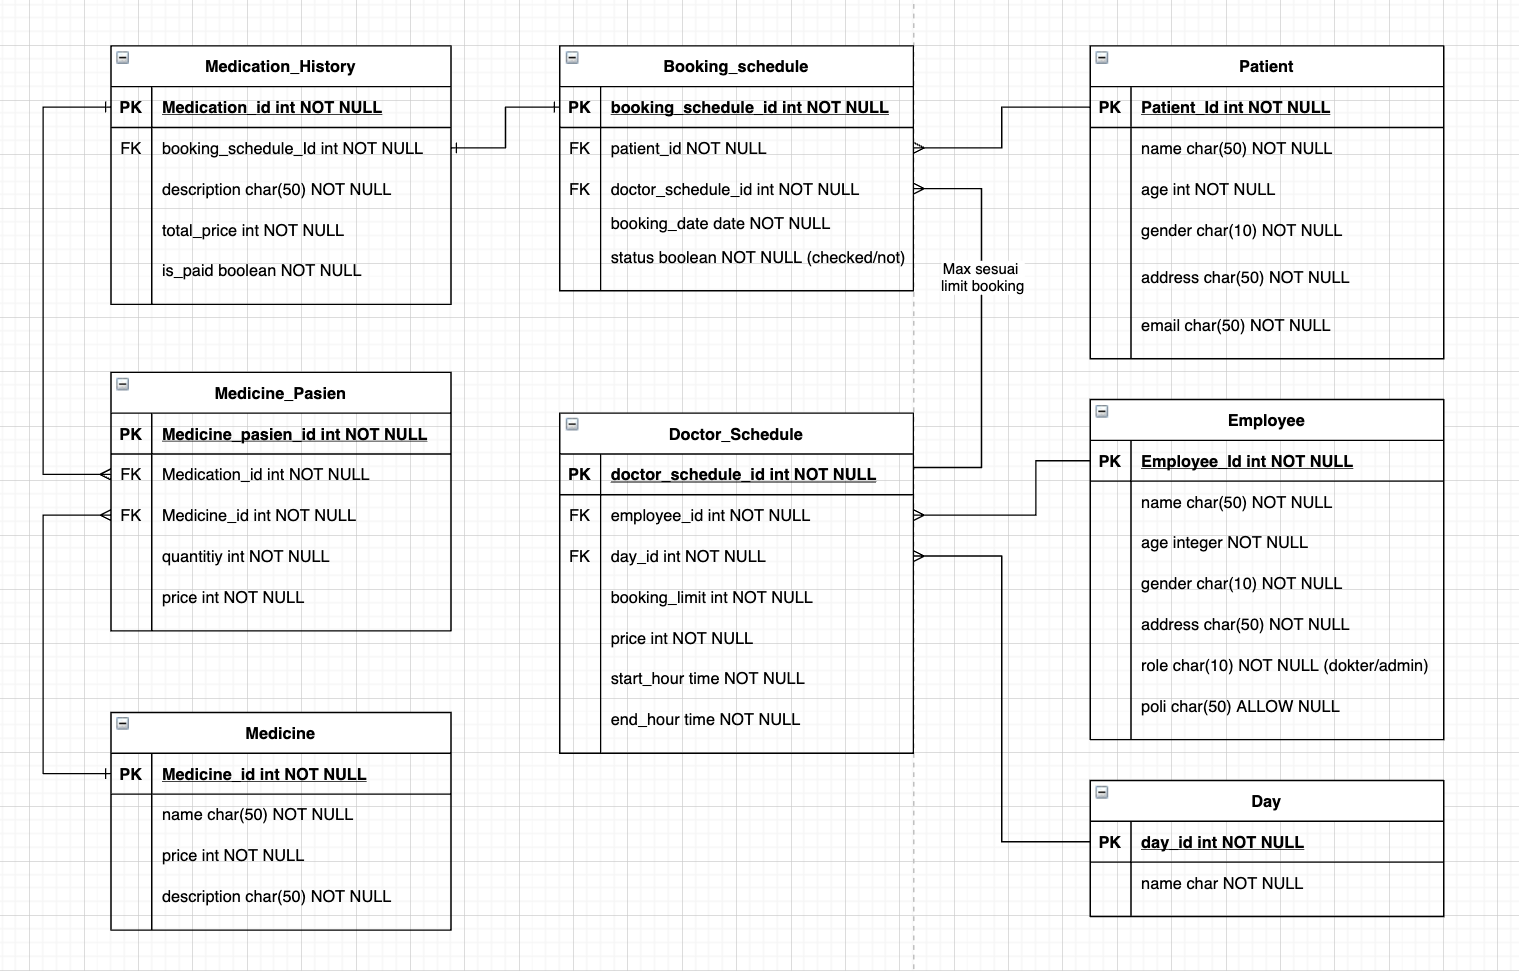
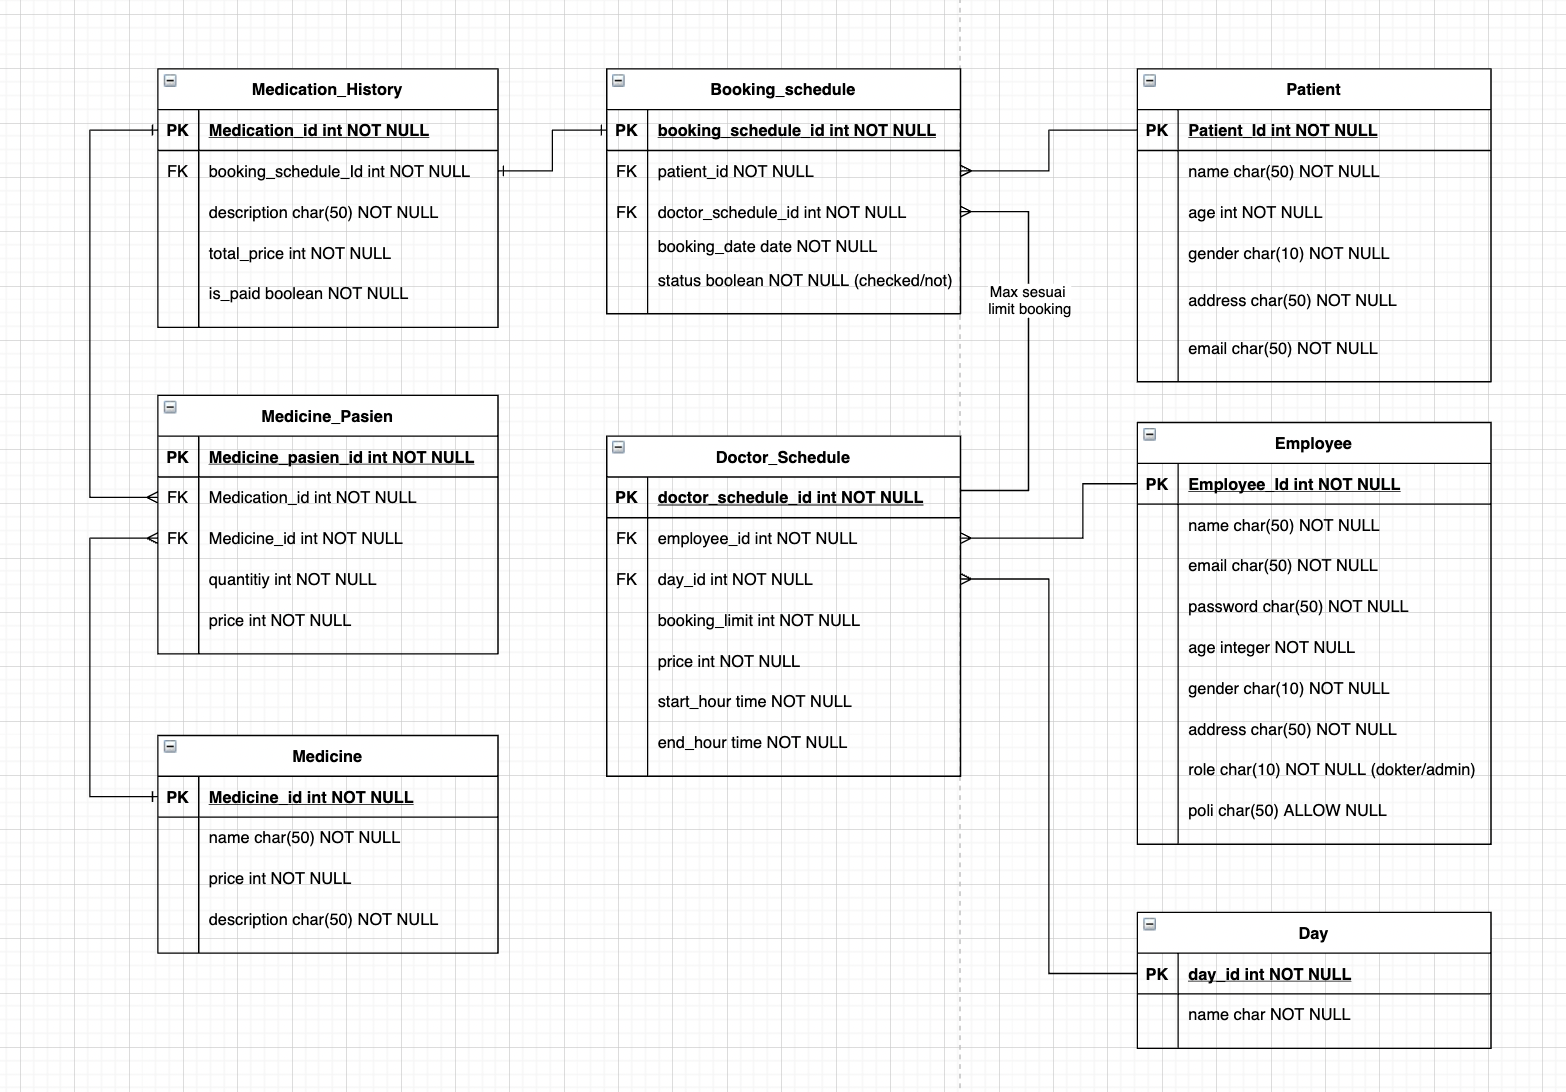
validation model and migrations

diff --git a/server/models/employee.js b/server/models/employee.js
@@ -14,11 +14,35 @@ module.exports = (sequelize, DataTypes) => {
     }
   };
   Employee.init({
-    name: DataTypes.STRING,
-    age: DataTypes.INTEGER,
-    gender: DataTypes.STRING,
-    address: DataTypes.STRING,
-    role: DataTypes.STRING,
+    name: {
+      allowNull: false,
+      type: DataTypes.STRING,
+    },
+    email: {
+      allowNull: false,
+      type: DataTypes.STRING,
+      unique: true
+    },
+    password: {
+      allowNull: false,
+      type: DataTypes.STRING,
+    },
+    age: {
+      allowNull: false,
+      type: DataTypes.INTEGER,
+    },
+    gender: {
+      allowNull: false,
+      type: DataTypes.STRING,
+    },
+    address: {
+      allowNull: false,
+      type: DataTypes.STRING,
+    },
+    role: {
+      allowNull: false,
+      type: DataTypes.STRING,
+    },
     poli: DataTypes.STRING
   }, {
     sequelize,

diff --git a/server/migrations/20211009050148-create-doctor-schedule.js b/server/migrations/20211009050148-create-doctor-schedule.js
@@ -9,21 +9,35 @@ module.exports = {
         type: Sequelize.INTEGER
       },
       EmployeeId: {
-        type: Sequelize.INTEGER
+        allowNull: false,
+        type: Sequelize.INTEGER,
+        references: {
+          model: 'Employees',
+          key: 'id'
+        }
       },
       DayId: {
-        type: Sequelize.INTEGER
+        allowNull: false,
+        type: Sequelize.INTEGER,
+        references: {
+          model: 'Days',
+          key: 'id'
+        }
       },
       booking_limit: {
+        allowNull: false,
         type: Sequelize.INTEGER
       },
       price: {
+        allowNull: false,
         type: Sequelize.INTEGER
       },
       start_hour: {
+        allowNull: false,
         type: Sequelize.DATE
       },
       end_hour: {
+        allowNull: false,
         type: Sequelize.DATE
       },
       createdAt: {

diff --git a/server/models/doctor_schedule.js b/server/models/doctor_schedule.js
@@ -14,12 +14,30 @@ module.exports = (sequelize, DataTypes) => {
     }
   };
   Doctor_Schedule.init({
-    EmployeeId: DataTypes.INTEGER,
-    DayId: DataTypes.INTEGER,
-    booking_limit: DataTypes.INTEGER,
-    price: DataTypes.INTEGER,
-    start_hour: DataTypes.DATE,
-    end_hour: DataTypes.DATE
+    EmployeeId: {
+      allowNull: false,
+      type: DataTypes.INTEGER,
+    },
+    DayId: {
+      allowNull: false,
+      type: DataTypes.INTEGER,
+    },
+    booking_limit: {
+      allowNull: false,
+      type: DataTypes.INTEGER,
+    },
+    price: {
+      allowNull: false,
+      type: DataTypes.INTEGER,
+    },
+    start_hour: {
+      allowNull: false,
+      type: DataTypes.DATE,
+    },
+    end_hour: {
+      allowNull: false,
+      type: DataTypes.DATE,
+    }
   }, {
     sequelize,
     modelName: 'Doctor_Schedule',

diff --git a/server/migrations/20211009045454-create-employee.js b/server/migrations/20211009045454-create-employee.js
@@ -9,18 +9,32 @@ module.exports = {
         type: Sequelize.INTEGER
       },
       name: {
+        allowNull: false,
+        type: Sequelize.STRING
+      },
+      email: {
+        allowNull: false,
+        type: Sequelize.STRING,
+        unique: true
+      },
+      password: {
+        allowNull: false,
         type: Sequelize.STRING
       },
       age: {
+        allowNull: false,
         type: Sequelize.INTEGER
       },
       gender: {
+        allowNull: false,
         type: Sequelize.STRING
       },
       address: {
+        allowNull: false,
         type: Sequelize.STRING
       },
       role: {
+        allowNull: false,
         type: Sequelize.STRING
       },
       poli: {

diff --git a/server/migrations/20211009050346-create-booking-schedule.js b/server/migrations/20211009050346-create-booking-schedule.js
@@ -9,15 +9,27 @@ module.exports = {
         type: Sequelize.INTEGER
       },
       PatientId: {
-        type: Sequelize.INTEGER
+        allowNull: false,
+        type: Sequelize.INTEGER,
+        references: {
+          model: 'Patients',
+          key: 'id'
+        }
       },
       DoctorScheduleId: {
-        type: Sequelize.INTEGER
+        allowNull: false,
+        type: Sequelize.INTEGER,
+        references: {
+          model: 'Doctor_Schedules',
+          key: 'id'
+        }
       },
       booking_date: {
+        allowNull: false,
         type: Sequelize.DATE
       },
       status: {
+        allowNull: false,
         type: Sequelize.BOOLEAN
       },
       createdAt: {

diff --git a/server/models/patient.js b/server/models/patient.js
@@ -14,11 +14,27 @@ module.exports = (sequelize, DataTypes) => {
     }
   };
   Patient.init({
-    name: DataTypes.STRING,
-    age: DataTypes.INTEGER,
-    gender: DataTypes.STRING,
-    address: DataTypes.STRING,
-    email: DataTypes.STRING
+    name: {
+      allowNull: false,
+      type: DataTypes.STRING,
+    },
+    age: {
+      allowNull: false,
+      type: DataTypes.INTEGER,
+    },
+    gender: {
+      allowNull: false,
+      type: DataTypes.STRING,
+    },
+    address: {
+      allowNull: false,
+      type: DataTypes.STRING,
+    },
+    email: {
+      allowNull: false,
+      type: DataTypes.STRING,
+      unique: true
+    }
   }, {
     sequelize,
     modelName: 'Patient',

diff --git a/server/models/medication_history.js b/server/models/medication_history.js
@@ -14,11 +14,25 @@ module.exports = (sequelize, DataTypes) => {
     }
   };
   Medication_History.init({
-    BookingScheduleId: DataTypes.INTEGER,
-    description: DataTypes.STRING,
-    total_price: DataTypes.INTEGER,
+    BookingScheduleId: {
+      allowNull: false,
+      type: DataTypes.INTEGER,
+    },
+    description: {
+      allowNull: false,
+      type: DataTypes.STRING,
+    },
+    total_price: {
+      allowNull: false,
+      type: DataTypes.INTEGER,
+    },
     is_paid: DataTypes.BOOLEAN
   }, {
+    hooks: {
+      beforeCreate(item){
+        item.is_paid = false
+      }
+    },
     sequelize,
     modelName: 'Medication_History',
   });

diff --git a/server/models/booking_schedule.js b/server/models/booking_schedule.js
@@ -14,11 +14,25 @@ module.exports = (sequelize, DataTypes) => {
     }
   };
   Booking_Schedule.init({
-    PatientId: DataTypes.INTEGER,
-    DoctorScheduleId: DataTypes.INTEGER,
-    booking_date: DataTypes.DATE,
+    PatientId: {
+      allowNull: false,
+      type: DataTypes.INTEGER,
+    },
+    DoctorScheduleId: {
+      allowNull: false,
+      type: DataTypes.INTEGER,
+    },
+    booking_date: {
+      allowNull: false,
+      type: DataTypes.DATE,
+    },
     status: DataTypes.BOOLEAN
   }, {
+    hooks: {
+      beforeCreate(item){
+        item.status = false
+      }
+    },
     sequelize,
     modelName: 'Booking_Schedule',
   });

diff --git a/server/migrations/20211009050640-create-patient-medicine.js b/server/migrations/20211009050640-create-patient-medicine.js
@@ -9,12 +9,23 @@ module.exports = {
         type: Sequelize.INTEGER
       },
       MedicationId: {
-        type: Sequelize.INTEGER
+        allowNull: false,
+        type: Sequelize.INTEGER,
+        references: {
+          model: 'Medication_Histories',
+          key: 'id'
+        }
       },
       MedicineId: {
-        type: Sequelize.INTEGER
+        allowNull: false,
+        type: Sequelize.INTEGER,
+        references: {
+          model: 'Medicines',
+          key: 'id'
+        }
       },
       quantity: {
+        allowNull: false,
         type: Sequelize.INTEGER
       },
       price: {

diff --git a/server/migrations/20211009045141-create-patient.js b/server/migrations/20211009045141-create-patient.js
@@ -9,19 +9,25 @@ module.exports = {
         type: Sequelize.INTEGER
       },
       name: {
+        allowNull: false,
         type: Sequelize.STRING
       },
       age: {
+        allowNull: false,
         type: Sequelize.INTEGER
       },
       gender: {
+        allowNull: false,
         type: Sequelize.STRING
       },
       address: {
+        allowNull: false,
         type: Sequelize.STRING
       },
       email: {
-        type: Sequelize.STRING
+        allowNull: false,
+        type: Sequelize.STRING,
+        unique: true
       },
       createdAt: {
         allowNull: false,

diff --git a/server/models/patient_medicine.js b/server/models/patient_medicine.js
@@ -14,10 +14,21 @@ module.exports = (sequelize, DataTypes) => {
     }
   };
   Patient_Medicine.init({
-    MedicationId: DataTypes.INTEGER,
-    MedicineId: DataTypes.INTEGER,
-    quantity: DataTypes.INTEGER,
-    price: DataTypes.INTEGER
+    MedicationId: {
+      allowNull: false,
+      type: DataTypes.INTEGER,
+    },
+    MedicineId: {
+      allowNull: false,
+      type: DataTypes.INTEGER,
+    },
+    quantity: {
+      allowNull: false,
+      type: DataTypes.INTEGER,
+    },
+    price: {
+      type: DataTypes.INTEGER,
+    }
   }, {
     sequelize,
     modelName: 'Patient_Medicine',

diff --git a/server/migrations/20211009050518-create-medication-history.js b/server/migrations/20211009050518-create-medication-history.js
@@ -9,15 +9,23 @@ module.exports = {
         type: Sequelize.INTEGER
       },
       BookingScheduleId: {
-        type: Sequelize.INTEGER
+        allowNull: false,
+        type: Sequelize.INTEGER,
+        references: {
+          model: 'Booking_Schedules',
+          key: 'id'
+        }
       },
       description: {
+        allowNull: false,
         type: Sequelize.STRING
       },
       total_price: {
+        allowNull: false,
         type: Sequelize.INTEGER
       },
       is_paid: {
+        allowNull: false,
         type: Sequelize.BOOLEAN
       },
       createdAt: {
